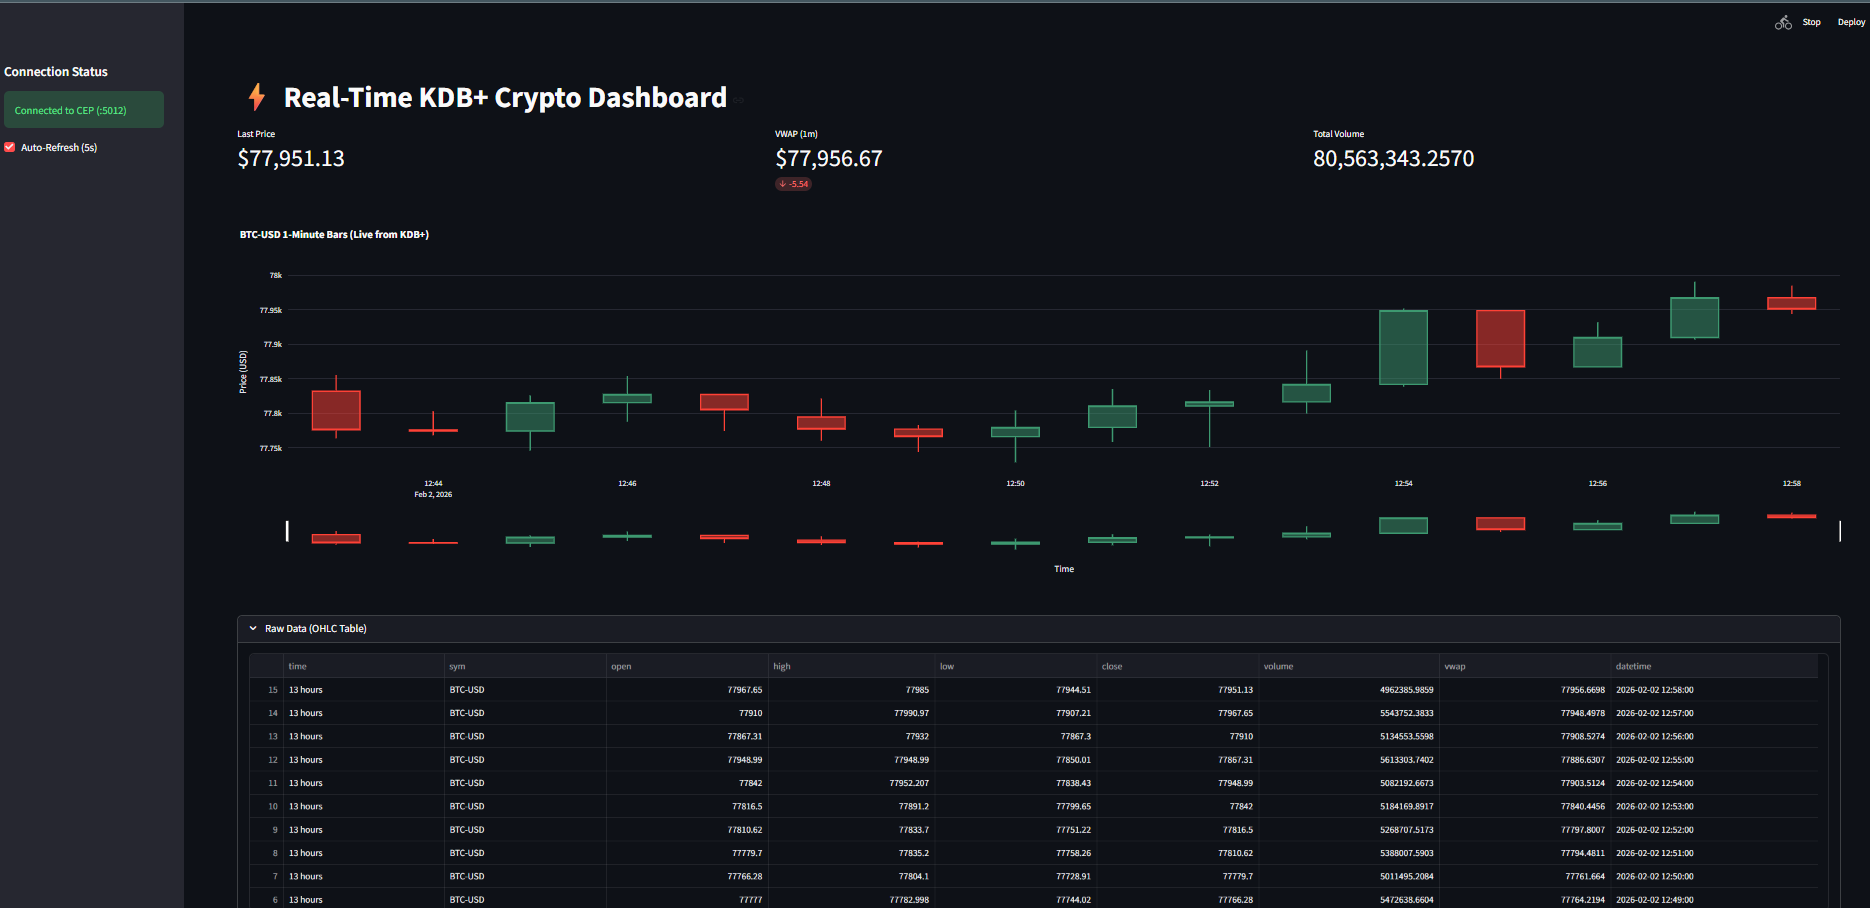
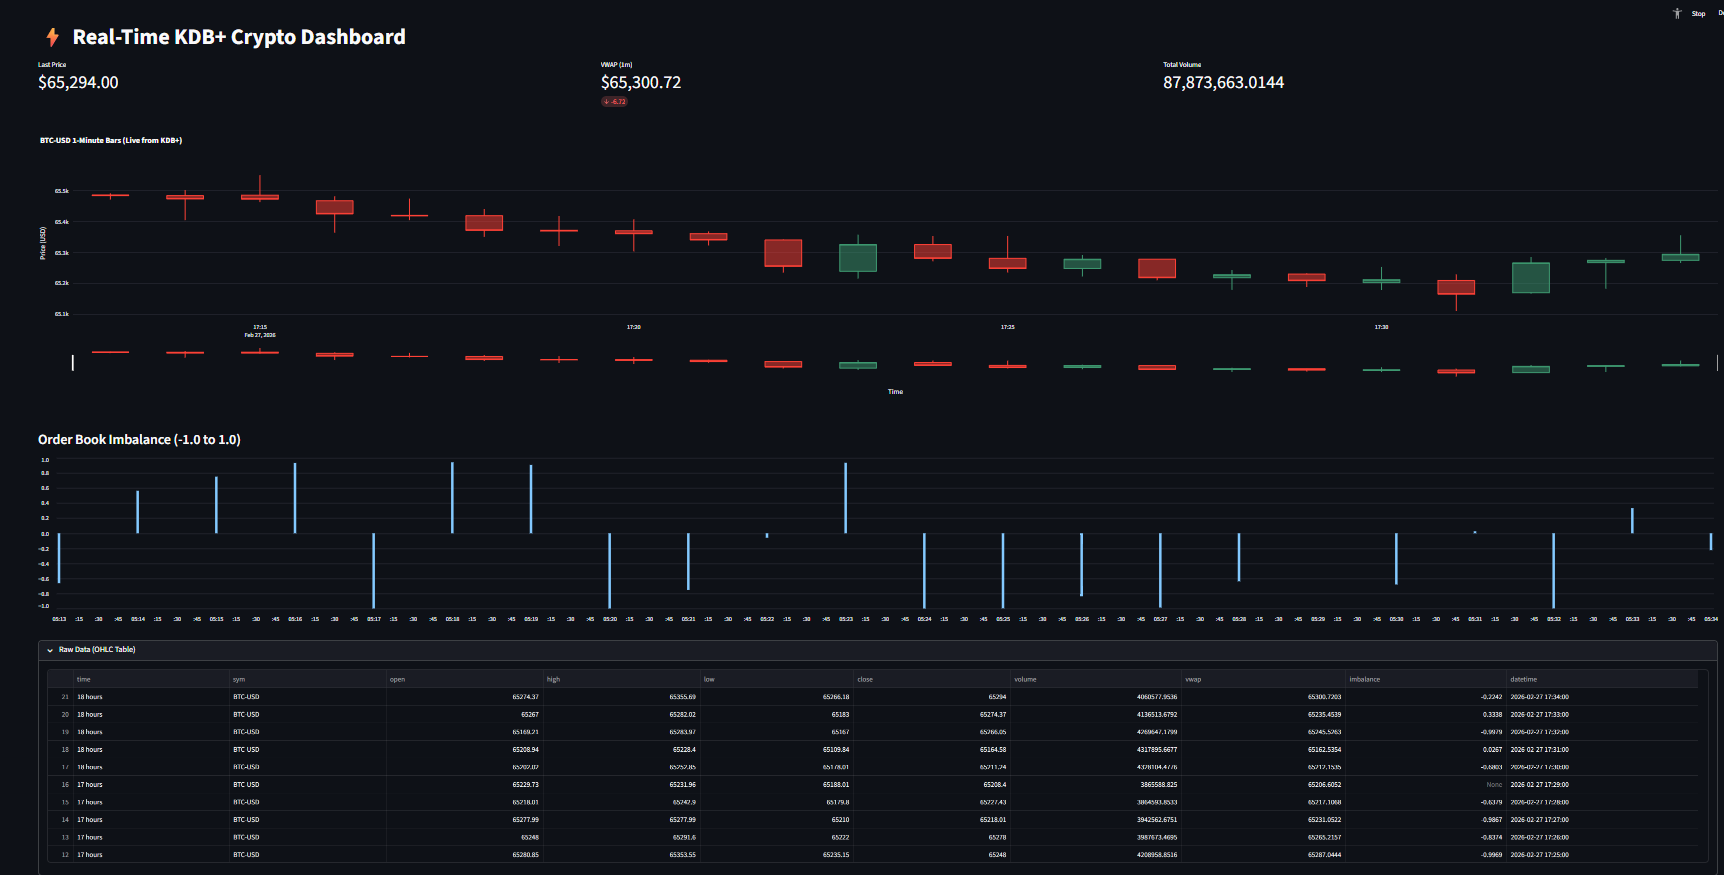
order book imbalance fixed

diff --git a/dashboard.py b/dashboard.py
@@ -99,8 +99,12 @@ while True:
             # Add a unique key based on time to prevent ID collisions during live updates
             unique_key = f"chart_{time.time()}"
             st.plotly_chart(fig, width='stretch', key=unique_key)
-            
-            # Data Table (Optional)
+
+            st.subheader("Order Book Imbalance (-1.0 to 1.0)")
+            # Positive (Buy Pressure), Negative (Sell Pressure)
+            st.bar_chart(df.set_index('datetime')['imbalance'])
+
+            # Data Table
             with st.expander("Raw Data (OHLC Table)"):
                 st.dataframe(df.sort_values(by='time', ascending=False).head(10))
         else:
